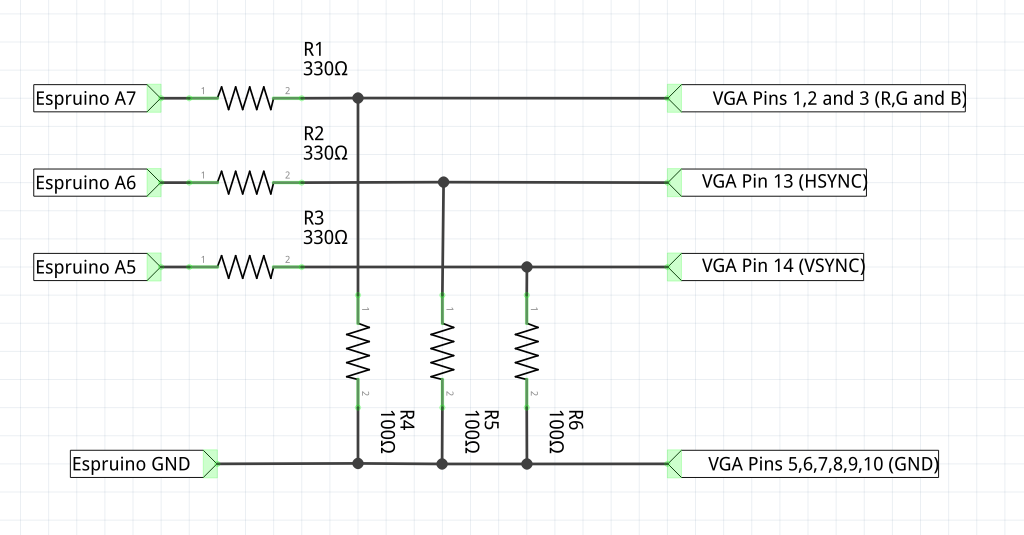
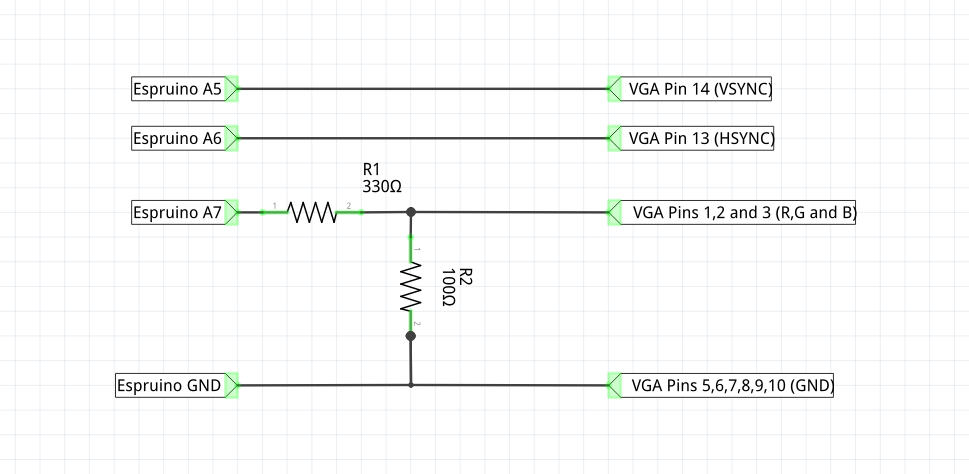
update TV docs

Changed region(s): [[0.031, 0.1477, 0.9598, 0.9156], [0.2786, 0.0886, 0.3406, 0.1477]]

diff --git a/peripherals/Television.md b/peripherals/Television.md
@@ -37,25 +37,25 @@ VGA
 
 ### Wiring
 
-The VGA specification requires that video signals be 0.7v peak-to-peak. The signals that come out of Espruino will be 3.3v peak to peak, so if you don't want to risk damage your VGA display then you will need to use resistors to reduce the voltage.
+The VGA specification requires that the video signal is 0.7v peak-to-peak (Hsync and Vsync are 5v). The signals that come out of Espruino will be 3.3v peak to peak, so if you don't want to risk damage your VGA display then you will need to use resistors to reduce the voltage of the video (monitors will be fine with the 3.3v Hsync and Vsync signals).
 
 You'll need:
 
 * A VGA connector (or old VGA cable)
-* 3x 100 Ohm resistors
-* 3x 330 Ohm resistors
+* 1x 100 Ohm resistor
+* 1x 330 Ohm resistor
 
 Connect:
 
 * A7 to one end of a 330 Ohm resistor, and the other end to VGA pin 1,2, or 3 (or all 3 - these are the Red, Green and Blue wires). Also connect this to GND via the 100 Ohm resistor.
-* A6 to one end of a 330 Ohm resistor, and the other end to VGA pin 13 (HSYNC). Also connect this to GND via the 100 Ohm resistor.
-* A5 to one end of a 330 Ohm resistor, and the other end to VGA pin 14 (VSYNC). Also connect this to GND via the 100 Ohm resistor.
 * All the grounds (pins 5,6,7,8,9) together, and to Espruino's ground.
 
 ![VGA Connections](VGA.png)
 
 
 ### Software
+
+Full resolution:
 
 ```
 var g = require('tv').setup({ type : "vga",
@@ -64,12 +64,31 @@ var g = require('tv').setup({ type : "vga",
   vsync : A5, // Pin - pin to use for video vertical sync
   width : 220,
   height : 480,
+  repeat : 1, // amount of times to repeat each line
 });
 
 g.drawLine(0,0,100,100);
 ```
 
-**Note:** at the moment the horizontal refresh rate is fixed, which means that heights other than 480 may not be accepted by your monitor.
+Or line doubling:
+
+```
+var g = require('tv').setup({ type : "vga",
+  video : A7, // Pin - SPI MOSI Pin for Video output (MUST BE SPI1)
+  hsync : A6, // Pin - pin to use for video horizontal sync
+  vsync : A5, // Pin - pin to use for video vertical sync
+  width : 220,
+  height : 240,
+  repeat : 2, // amount of times to repeat each line
+});
+
+g.drawLine(0,0,100,100);
+```
+
+**Note:**
+
+* At the moment the horizontal refresh rate is fixed, which means that heights other than 480 may not be accepted by your monitor.
+* The idle state of the video signal currently depends on the last byte that is transmitted. In order to get the best video signal it's worth making sure you leave the last 8 columns of the graphics buffer blank.
 
 
 Using TV Out
